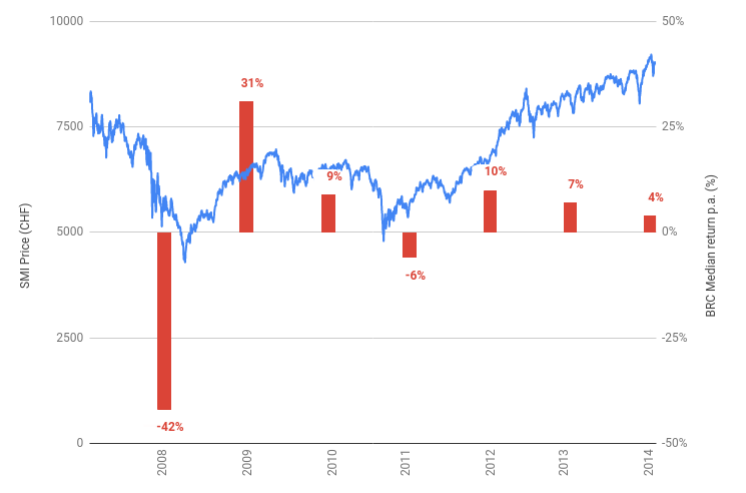
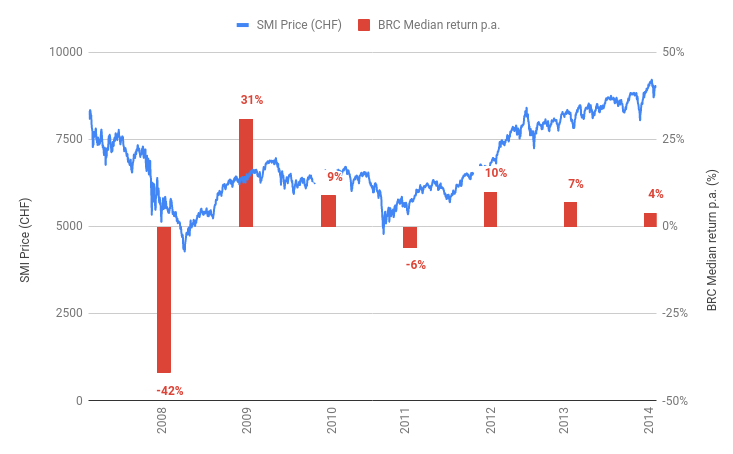
More references

diff --git a/main.tex b/main.tex
@@ -139,11 +139,11 @@ Structured products represent an attractive alternative to classical securities 
 
 In this report, we will focus on a particular structured product called Barrier Reverse Convertible (BRC). A BRC is a kind of reverse convertible security linked to an underlying stock that can be either an equity or an index. The capital repayment is made at maturity ; it can be 100\% of the principal if the underlying stock has not reached a predetermined barrier and less otherwise. A BRC also pays highly-rated coupons that enhance the attractiveness of the product.
 
-Reverse convertible securities are among the most popular products in Switzerland in terms of risk-optimization, especially if the investor expects the market to move upward. In order to illustrate that, we present in Figure \ref{fig:median-returns-BRC} the median returns of Swiss BRCs p.a. from 2008 to 2014 \cite{SSPA-study} and compare it with the evolution of the SMI index during the same period\footnote{We use this index as a proxy for the Swiss market.}. We can see that the median return of the BRCs seems effectively to be positively correlated with the index trend. As the volatility is generally decreasing with the stock price getting higher, this could also mean that someone investing in a BRC would expect lower volatility in the future. The mechanisms hidden behind those observations will be better explained further in this report.
+Reverse convertible securities are among the most popular products in Switzerland in terms of risk-optimization, especially if the investor expects the market to move upward. In order to illustrate that, we present in Figure \ref{fig:median-returns-BRC} the median returns of Swiss BRCs p.a. from 2008 to 2014 \cite{SSPA-study} and compare it with the evolution of the SMI index during the same period\footnote{The Swiss Market Index (SMI) is Switzerland's stock market index made of 20 of the largest and most liquid stocks. Here, we use this index as a proxy for the Swiss market.}. We can see that the median return of the BRCs seems effectively to be positively correlated with the index trend. As the volatility is generally decreasing with the stock price getting higher, this could also mean that someone investing in a BRC would expect lower volatility in the future. The mechanisms hidden behind those observations will be better explained further in this report.
 
 \begin{figure}[H] 
     \centering
-    \includegraphics[scale=0.4]{images/BRC_median_return.png} 
+    \includegraphics[scale=0.45]{images/BRC_median_return.png} 
     \caption{BRC median returns in \% in Switzerland compared with the SMI index evolution}
     \label{fig:median-returns-BRC}
 \end{figure}
@@ -218,7 +218,7 @@ To the regular (multi) BRCs can be added the callability by the issuer. This mea
 
 \chapter{Pricing Methodology}
 \label{chap:pricing-methodology}
-Since the financial instrument we want to price is a multi-dimensional asset, the best choice of pricing methodology seems to be a Monte Carlo method. The only problem with this method is that the price between the beginning and the maturity of the contract is unknown, and more particularly at the times of possible redemption by the issuer (called times of callability). But the price of the asset at those particular times has to be known (and compared with the amount of redemption precised in the contract) in order to determine whether the callability is activated or not by the issuer. A first and naive idea would be to use a new Monte Carlo at each time step needed, but this would be computationally too long and too complex to be efficient.  
+The price of the asset has to be known at all the times of possible redemption by the issuer to determine whether the asset will be called or not at those dates (we suppose that the issuer activates the callability if the call level is higher than the expected discounted cash flows at that date). Because of the multi-dimensionality of the asset, a first and naive approach would be to use a Monte Carlo method, but this would imply to compute a new Monte Carlo at each call dates to ascertain the behavior of the issuer, which would be computationally too long and too complex to be efficient. 
 
 A better solution would be to proceed in a backward manner, beginning with the price at maturity (which is known thanks to the explicit final payoff profile) and coming back to the price at $t=0$ step by step. With this approach, inspired by the Longstaff-Swartz algorithm \cite{schwartz2001valuing}, the price can be known at all the possible redemption times.
 
@@ -230,8 +230,11 @@ The whole methodology will be described in this chapter. First, we will present 
 \section{Presentation of the SDE system}
 \label{sec:SDE-presentation}
 As explained above, the objective is to compute the solution of  a forward-backward stochastic differential equation (FBSDE) which can be written as follow :
-$$S_{t} = S_{0}+\int_{0}^{t}b(s,S_{s})ds +\int_{0}^{t} \sigma(s,S_{s})dW_{s}$$
-$$Y_{t} = \Phi(\textbf{S}) + \int_{t}^{T}f(s,Y_{s},Z_{s})ds -\int_{t}^{T}Z_{s}dW_{s}$$
+$$\begin{cases}
+S_{t} = S_{0}+\int_{0}^{t}b(s,S_{s})ds +\int_{0}^{t} \sigma(s,S_{s})dW_{s}\\
+ \\
+Y_{t} = \Phi(\textbf{S}) + \int_{t}^{T}f(s,Y_{s},Z_{s})ds -\int_{t}^{T}Z_{s}dW_{s}
+\end{cases}$$
 $\textbf{S}=(S_{t})_{t\geq0}$ is a d-dimensional stochastic variable. It is the forward component of the system which represents the underlyings. $(Y_{t})_{t\geq0}$ represents the value of a replicating portfolio at time t and is uni-dimensional.\\
 The process $W$ is a d-dimensional brownian motion defined on a probability space $(\Omega,\mathcal{F},\mathbb{P})$ provided with its natural filtration $(\mathcal{F)}_{t}$ and generated by $W$. 
 $T$ is the maturity of our asset in year fraction.\\
@@ -249,7 +252,7 @@ Resolving the backward equation thus consists in computing a pair of processes $
 The model used for the diffusion of the underlyings is the Black-Scholes model. We suppose that all the underlyings have the same currency. As the pricing is done under risk-neutral probability, we have for each underlying $(S^{i}_{t})_{t\geq0}$:
 $$
 \begin{cases}
-dS_{t}^{i}=r\text{d}t+\sigma_{i}\text{d}W_{t}^{i} \\
+dS_{t}^{i}=r S_{t}^{i} \text{d}t+\sigma_{i} S_{t}^{i} \text{d}W_{t}^{i} \\
 S_{0}^{i}=s_{0}^{i} 
 \end{cases}
 $$
@@ -271,7 +274,7 @@ The first step is to generate $d$ independent realizations of a standard normal 
 \begin{tcolorbox}[breakable,colback=cyan,opacityfill=0.05,colframe=blue,width=\dimexpr\textwidth+12mm\relax,enlarge left by=-6mm]
 \begin{center}
 \vspace{0.2cm}
-\textbf{How to make a matrix $\Sigma$ definite positive ?}
+\textbf{How to make a matrix $\Sigma$ definite positive ?\footnote{This method is a first approach that could be improved with more complex algorithms. A good methodology for making a matrix definite positive is the one presented in \cite{jung2015scaling} based on the scaling of eigenvalues and the rotation of eigenvectors.}}
 \end{center}
 \begin{enumerate}
     \item Diagonalize the matrix $\Sigma$, \textit{ie} find $P$ an invertible matrix and $D$ a diagonal matrix such that $\Sigma=PDP^{-1}$
@@ -306,18 +309,9 @@ When it comes to several underlyings, the computation of $p$ becomes harder. As 
     
     \item \textbf{The barrier is a \textit{BestOf} and is up} : this situation is the same as the first one so  $p_{i}=1-\prod_{j=1}^{d}(1-p_{i}^{j})$
 \end{enumerate}
-Note that in order to compute those probabilities, we have made the strong assumption of independence between the different underlyings, which is not generally the case. Nevertheless, this approximation is necessary to have simple formulas and to take them into account in the payoff computation.
+Note that in order to compute those probabilities, we have made the strong assumption of independence between the different underlyings, which is not generally the case\footnote{This is a first approximation that could be improved for example with the Large Deviation Theory that relies on the asymptotic behaviors of probability distributions. For more information on that subject, see \cite{baldi1995exact}, \cite{baldi1999pricing} and \cite{huh2008computation}}.
 \section{Resolution of the backward equation}
-\subsection{Choice of the driver function}
-\label{subsec:choice-of-f}
-In order to find the expression of $f$ and to give more intuition about what the process $(Z_{t})_{t\geq0}$ represents, we set up a self-financing portfolio $Y_{t}$ and buy $a_{t}$ stocks $S_{t}$ at time $t$. The rest of the portfolio is invested in a bond whose fixed rate is the risk-free rate $r$. The value of the portfolio then evolves like:
-$$dY_{t} = r(Y_{t}-a_{t}S_{t})\text{d}t + a_{t}dS_{t}$$
-$$dY_{t} = r(Y_{t}-a_{t}S_{t})\text{d}t + a_{t}(rS_{t}\text{d}t+\sigma S_{t}\text{d}W_{t})$$
-which gives:
-$$dY_{t} = rY_{t}\text{d}t + \sigma a_{t}S_{t}\text{d}W_{t}$$
-The process $(Y_{t})_{t\geq0}$ presented in \ref{sec:SDE-presentation} is a solution of this SDE with $f(t,Y_{t})=-rY_{t}$, $Z_{t} = \sigma a_{t}S_{t}$ and the terminal condition $\Phi(S)=Y_{T}$.
-The hedging-strategy corresponds to $Z_{t}=\sigma S_{t} a_{t}$ where $a_{t}$ is the delta of the option. 
-\subsection{Resolution}
+\subsection{Resolution formula}
 Let us rewrite the backward equation at $t_{k}$ and $t_{k+1}$, two consecutive times in the time grid :
 $$Y_{t_{k}} = \Phi(S) + \int_{t_{k}}^{T} f(s,Y_{s}) ds - \int_{t_{k}}^{T} Z_{s} dW_{s}$$
 $$Y_{t_{k+1}} = \Phi(S) + \int_{t_{k+1}}^{T} f(s,Y_{s}) ds - \int_{t_{k+1}}^{T} Z_{s} dW_{s}$$
@@ -368,22 +362,24 @@ where $x=(x_{1},\ldots,x_{d})^{T}$, $x_{i}=(x_{1i},\ldots,x_{di})^{T}$, $d$ is t
 Furthermore, we chose to use the standard multivariate gaussian kernel which can be expressed as follows :
 $K_{H}(x)=\frac{1}{(2\pi)^{\frac{d}{2}}}|H|^{-\frac{1}{2}}e^{-\frac{1}{2}x^{T}H^{-1}x}$
 
-The choice of the matrix $H$ appears to be crucial as it controls the smoothing of the estimation. A good choice would be the \textit{rule of thumb} proposed by Silverman \cite{silverman1986density} which consists in a diagonal matrix whose terms are : $$\forall i=1,\ldots,d, H_{ii} = (\frac{4}{d+2})^{\frac{2}{d+4}}N^{\frac{-2}{d+4}}\sigma_{i}^{2}$$
+The choice of the matrix $H$ appears to be crucial as it controls the smoothing of the estimation. We chose the \textit{rule of thumb} proposed by Silverman \cite{silverman1986density} which consists in a diagonal matrix whose terms are : $$\forall i=1,\ldots,d, H_{ii} = (\frac{4}{d+2})^{\frac{2}{d+4}}N^{\frac{-2}{d+4}}\sigma_{i}^{2}$$
 with $\sigma_{i}^{2}$ the variance of the $d^{th}$ variable.\\
+
+This choice of the bandwidth is a first approximation as it supposes that the density function $f$ is normal. Nevertheless, it is convenient to have a general expression of $h$ without additional computations for a better performance of the algorithm. 
 
 The estimator then finally becomes :
 $$\hat{m}_{H}(x)= \frac{\sum_{i=1}^{N}y_{i}e^{-\frac{1}{2}(\frac{4}{N(d+2)})^{-\frac{2}{d+4}}\sum_{j=1}^{d}\frac{(x_{j}-x_{ji})^{2}}{\sigma_{j}^{2}}}}{\sum_{i=1}^{N}e^{-\frac{1}{2}(\frac{4}{N(d+2)})^{-\frac{2}{d+4}}\sum_{j=1}^{d}\frac{(x_{j}-x_{ji})^{2}}{\sigma_{j}^{2}}}}$$
 \subsection{Picard's method}
-We can see from the resolution formula \eqref{resolutionFormula} that the value of $Y_{t_{k}}$ we want to compute appears on the left and on the right side of the equation. We will thus use a fixed-point argument to compute $Y_{t_{k}}$.
+We can see from the resolution formula \eqref{resolutionFormula} that the value of $Y_{t_{k}}$ we want to compute appears on the left and on the right side of the equation with an implicit expression. We will thus use a fixed-point argument to compute $Y_{t_{k}}$.
 
 \begin{prop}
 The application $\Psi : Y \rightarrow \mathbb{E}(Y_{t_{k+1}}|\mathcal{F}_{t_{k}}) + \Delta_{t_k}f(t_{k},Y_{t_{k}})$ is a contraction of $\mathcal{L}_{2}(\mathcal{F}_{t_{k}})$ for a small $\Delta_{t_{k}}$.
 \end{prop}
 
 \begin{proof}
-Let $Y_{1}$ and $Y_{2}$ be two elements of $\mathcal{L}_{2}(\mathcal{F}_{t_{k}})$. Let us remind that $f(t,Y_t)=-rY_t$. We have : $$|\Psi(Y_{2})-\Psi(Y_{1})|=\Delta_{t_{k}}|f(t_{k},Y_{2})-f(t_{k},Y_{1})|$$
-$$=\Delta_{t_{k}}r |Y_{2}-Y_{1}|\leq \Delta_{t_{k}} C_{r}|Y_{2}-Y_{1}|$$
-where $C_{r}$ is a constant depending on $r$.
+Let $Y_{1}$ and $Y_{2}$ be two elements of $\mathcal{L}_{2}(\mathcal{F}_{t_{k}})$. Let us remind that $f$ satisfies Lipschitz conditions. We have : $$|\Psi(Y_{2})-\Psi(Y_{1})|=\Delta_{t_{k}}|f(t_{k},Y_{2})-f(t_{k},Y_{1})|$$
+$$\leq \Delta_{t_{k}} C|Y_{2}-Y_{1}|$$
+where $C$ is the Lipschitz constant.
 \end{proof}
 Thanks to this, we can apply Picard iterations to find $Y_{t_{k}}$. The methodology is the following:
 \begin{itemize}
@@ -395,47 +391,32 @@ We stop the iterations when the value seems to have converged, \textit{ie} when 
 \label{subsec:computation-0}
 At time $t=0$, the resolution formula \eqref{resolutionFormula} becomes $$Y_{t_{0}} = \mathbb{E}(Y_{t_{1}}|\mathcal{F}_{t_{0}}) + \Delta_{t_{0}}f(t_{0},Y_{t_{0}})=\mathbb{E}(Y_{t_{1}}) + \Delta_{t_{0}}f(t_{0},Y_{t_{0}})$$
 No more kernel estimation is then needed, the computation of $Y_{t_{0}}$ only requires the computation of an expectation (which is approximated by the mean of the vector $(Y_{t_1,i})_{i=1,\ldots,N}$) and Picard iterations. We use the Monte Carlo estimator :
-$$Y_{t_{0}} = \frac{1}{N}\sum_{i=1}^{N}Y_{1,i}-r\Delta_{t_{0}}Y_{t_{0}}$$
-\subsection{Computation of the delta of the option}
-As explained in \ref{subsec:choice-of-f}, the process $(\Delta_t)_{0 \leq t \leq T}$ is given by $\Delta_t=\frac{Z_t}{\sigma S_t}$. In order to compute $\Delta_{t_0}$, we then have to compute $Z_{t_0}$.
-Let us rewrite equation \ref{eq:Y_t} multiplied by $\Delta W_{t_k} = W_{t_k+1}-W_{t_k}$ and taken with the conditional expectation $\mathbb{E}(.|F_{t_k})$:
-$$\begin{aligned}
-\mathbb{E}(\Delta W_{t_k} Y_{t_{k}}|F_{t_k}) =& \mathbb{E}(\Delta W_{t_k} Y_{t_{k+1}}|F_{t_k}) + \mathbb{E}\left(\Delta W_{t_k} \int_{t_{k}}^{t_{k+1}} f(s,Y_{s}) ds~\bigg\vert~F_{t_k}\right) \\ 
-&-\mathbb{E}\left(\Delta W_{t_k} \int_{t_{k}}^{t_{k+1}}Z_{s} dW_{s}~\bigg\vert~F_{t_k}\right)
-\end{aligned}$$
+$$Y_{t_{0}} = \frac{1}{N}\sum_{i=1}^{N}Y_{1,i}+\Delta_{t_{0}}f(t_0,Y_{t_{0}})$$
 
-This can be written :
-$$\begin{aligned}
-Y_{t_{k}}\mathbb{E}(\Delta W_{t_k}) =& \mathbb{E}(\Delta W_{t_k} Y_{t_{k+1}}|F_{t_k}) + \mathbb{E}\left(\Delta W_{t_k} \int_{t_{k}}^{t_{k+1}} f(s,Y_{s}) ds\right) \\
-&-\mathbb{E}\left(\Delta W_{t_k} \int_{t_{k}}^{t_{k+1}}Z_{s} dW_{s}~\bigg\vert~F_{t_k}\right)
-\end{aligned}$$
+\subsection{Choice of the driver function}
+\label{subsec:choice-of-f}
+In the case of a pricing under the risk-neutral probability, it is possible to find the explicit expression of the driver function in the backward equation (this function was noted $f$) and to give more intuition about what the process $(Z_{t})_{t\geq0}$ represents, we set up a self-financing portfolio $Y_{t}$ and buy $a_{t}$ stocks $S_{t}$ at time $t$. The rest of the portfolio is invested in a bond whose fixed rate is the risk-free rate $r$. The value of the portfolio then evolves like:
+$$\begin{cases}
+dY_{t} = r(Y_{t}-a_{t}S_{t})\text{d}t + a_{t}dS_{t}\\
+ \\
+dS_{t}=rS_t\text{d}t+\sigma S_t\text{d}W_{t}
+\end{cases}$$
+which gives:
+$$dY_{t} = rY_{t}\text{d}t + \sigma a_{t}S_{t}\text{d}W_{t}$$
+The process $(Y_{t})_{t\geq0}$ presented in \ref{sec:SDE-presentation} is a solution of this SDE with $f(t,Y_{t})=-rY_{t}$, $Z_{t} = \sigma a_{t}S_{t}$ and the terminal condition $\Phi(S)=Y_{T}$.
+The hedging-strategy corresponds to $Z_{t}=\sigma S_{t} a_{t}$ where $a_{t}$ is the delta of the option. 
 
-We know that :
-\begin{itemize}
-    \item $\mathbb{E}(\Delta W_{t_k})=0$
-    \item $\mathbb{E}\left(\Delta W_{t_k} \int_{t_{k}}^{t_{k+1}} f(s,Y_{s}) ds\right)=\int_{t_{k}}^{t_{k+1}} f(s,Y_{s}) ds \mathbb{E}(\Delta W_{t_k})=0$
-    \item $\mathbb{E}\left(\Delta W_{t_k} \int_{t_{k}}^{t_{k+1}}Z_{s} dW_{s}|F_{t_k}\right) \simeq \mathbb{E}(\Delta W_{t_k}^2 Z_{t_k}|F_{t_k}) = Z_{t_k} \mathbb{E}(\Delta W_{t_k}^2|F_{t_k}) = Z_{t_k} \mathbb{E}(\Delta W_{t_k}^2) = Z_{t_k} \Delta_{t_k}$
-\end{itemize}
-
-We can then compute $Z_{t_k}$ for each $t_{k}$ with the following formula :
-\begin{equation}
-    Z_{t_k} \simeq \frac{1}{\Delta_{t_k}}\mathbb{E}(\Delta W_{t_k} Y_{t_{k+1}}|F_{t_k})
-\end{equation}
-
-And $\Delta_{t_0}$ is given by :
-$$\Delta_{t_0} \simeq \frac{1}{\sigma \Delta_{t_k} S_{t_k}}\mathbb{E}(\Delta W_{t_0} Y_{t_{1}}|F_{t_0})=\frac{1}{\sigma \Delta_{t_k} S_{t_k}}\mathbb{E}(\Delta W_{t_0} Y_{t_{1}})$$
-
-\section{Resolution of a double reflected BSDE}
+\section{Resolution of a reflected BSDE}
 \subsection{Motivations}
 There are two aspects of the callable Barrier Reverse Convertible that can not be included in the final payoff. These are the coupons that can be paid throughout the whole life of the asset, and the callability of the BRC that can be activated at determined times before maturity. This can introduce some discontinuity in the price of the asset, which we tried to integrate in our modeling with reflected forward-backward stochastic differential equations.
 \subsection{Description of the new problem and resolution}
 We define the following set of equations :
 $$S_{t}=S_{0} + \int_{0}^{t}b(s,S_{s})ds + \int_{0}^{t}\sigma(s,S_{s})dW_{s}$$
 $$Y_{t}=\Phi(S_{T})+\int_{t}^{T}f(s,Y_{s},Z_{s})ds+(K_{T}^{+}-K_{t}^{+})+(K_{T}^{-}-K_{t}^{-})-\int_{t}^{T}Z_{s}dW_{s}$$
-$$\forall t\leq T, L_{t}\leq Y_{t}\leq U_{t} \text{ with }$$ $$\int_{0}^{T}(Y_{s}-L_{s})dK_{s}^{+}=\int_{0}^{T}(U_{s}-Y_{s})dK_{s}^{+}=0$$
-as a double reflected forward backward stochastic differential equation (double RFBSDE).
+$$\forall t\leq T, Y_{t}\leq U_{t} \text{ with } \int_{0}^{T}(U_{s}-Y_{s})dK_{s}^{+}=0 $$
+as a reflected forward backward stochastic differential equation (RFBSDE) with a jump process $(K_{t}^{+})_{0\leq t \leq T}$.
 
-The processes $(L_{t})_{0\leq t \leq T}$ and $(U_{t})_{0\leq t \leq T}$ are called the obstacles and the processes $(K_{t}^{+})_{0\leq t \leq T}$ and $(K_{t}^{-})_{0\leq t \leq T}$ are here to "push" the price respectively above and below those obstacles. \\
+The process $(U_{t})_{0\leq t \leq T}$ is called the obstacle and the process $(K_{t}^{-})_{0\leq t \leq T}$ is here to "push" the price below this obstacle (in our case to push the price to the call level if the asset is called). The jump process $(K_{t}^{+})_{0\leq t \leq T}$ is here to include the coupons in the price when necessary. \\
 
 The first step to resolve this new problem is to resolve the unreflected BSDE on the time interval $[t_{k-1},t_{k}]$, just as we described in the previous section. We then compute : $$\widetilde{\widetilde{Y}}_{t_{k-1}}=Y_{t_{k}}+\int_{t_{k-1}}^{t_{k}}f(s,Y_{s},Z_{s})ds-\int_{t_{k-1}}^{t_{k}}Z_{s}dW_{s}$$
 
@@ -444,12 +425,11 @@ Finally, if the date $t_{k-1}$ is a call date, we have to make sure that the pri
 $$U_{t_{k-1}}=
 \begin{cases}
 \text{Value of the call} & \text{if } \widetilde{Y}_{t_{k-1}}\geq \text{Value of the call }\\
-0& \text{otherwise }
+\widetilde{Y}_{t_{k-1}}& \text{otherwise }
 \end{cases}$$
 
 And $Y_{t_{k-1}}=\min(\widetilde{Y}_{t_{k-1}},U_{t_{k-1}})$. We can define $K_{t_{k-1}}=Y_{t_{k-1}}-\widetilde{Y}_{t_{k-1}}$ so that $(K_{t})_{0\leq t\leq T}$ sticks with its definition.
 
-\newpage
 \section{Taking into account the risk of default}
 The price of the asset still doesn't include the probability of default of the issuer. In order to do that we have to multiply the price by the survival probability of the issuer.\\
 
@@ -491,6 +471,36 @@ We can summarize the pricing methodology we use for callable barrier reverse con
     \item \textbf{Compute the price at $t=0$} as described in \ref{subsec:computation-0}
     \item \textbf{Take into account the default risk}, \textit{ie} multiply the price by the survival probability of the issuer
 \end{enumerate}
+
+\section{Computation of the delta of the option}
+In addition to the pricing can be computed the delta of the option very easily. Indeed, as explained in \ref{subsec:choice-of-f}, the delta is the process $(a_t)_{0 \leq t \leq T}$ given by $a_t=\frac{Z_t}{\sigma S_t}$. In order to compute $\a_{t_0}$, we then have to compute $Z_{t_0}$.
+Let us rewrite equation \ref{eq:Y_t} multiplied by $\Delta W_{t_k} = W_{t_k+1}-W_{t_k}$ and taken with the conditional expectation $\mathbb{E}(.|F_{t_k})$:
+$$\begin{aligned}
+\mathbb{E}(\Delta W_{t_k} Y_{t_{k}}|F_{t_k}) =& \mathbb{E}(\Delta W_{t_k} Y_{t_{k+1}}|F_{t_k}) + \mathbb{E}\left(\Delta W_{t_k} \int_{t_{k}}^{t_{k+1}} f(s,Y_{s}) ds~\bigg\vert~F_{t_k}\right) \\ 
+&-\mathbb{E}\left(\Delta W_{t_k} \int_{t_{k}}^{t_{k+1}}Z_{s} dW_{s}~\bigg\vert~F_{t_k}\right)
+\end{aligned}$$
+
+This can be written :
+$$\begin{aligned}
+Y_{t_{k}}\mathbb{E}(\Delta W_{t_k}) =& \mathbb{E}(\Delta W_{t_k} Y_{t_{k+1}}|F_{t_k}) + \mathbb{E}\left(\Delta W_{t_k} \int_{t_{k}}^{t_{k+1}} f(s,Y_{s}) ds\right) \\
+&-\mathbb{E}\left(\Delta W_{t_k} \int_{t_{k}}^{t_{k+1}}Z_{s} dW_{s}~\bigg\vert~F_{t_k}\right)
+\end{aligned}$$
+
+We know that :
+\begin{itemize}
+    \item $\mathbb{E}(\Delta W_{t_k})=0$
+    \item $\mathbb{E}\left(\Delta W_{t_k} \int_{t_{k}}^{t_{k+1}} f(s,Y_{s}) ds\right)=\int_{t_{k}}^{t_{k+1}} f(s,Y_{s}) ds \mathbb{E}(\Delta W_{t_k})=0$
+    \item $\mathbb{E}\left(\Delta W_{t_k} \int_{t_{k}}^{t_{k+1}}Z_{s} dW_{s}|F_{t_k}\right) \simeq \mathbb{E}(\Delta W_{t_k}^2 Z_{t_k}|F_{t_k}) = Z_{t_k} \mathbb{E}(\Delta W_{t_k}^2|F_{t_k}) = Z_{t_k} \mathbb{E}(\Delta W_{t_k}^2) = Z_{t_k} \Delta_{t_k}$
+\end{itemize}
+
+We can then compute $Z_{t_k}$ for each $t_{k}$ with the following formula :
+\begin{equation}
+    Z_{t_k} \simeq \frac{1}{\Delta_{t_k}}\mathbb{E}(\Delta W_{t_k} Y_{t_{k+1}}|F_{t_k})
+\end{equation}
+
+And $a_{t_0}$ is given by :
+$$a_{t_0} \simeq \frac{1}{\sigma \Delta_{t_k} S_{t_k}}\mathbb{E}(\Delta W_{t_0} Y_{t_{1}}|F_{t_0})=\frac{1}{\sigma \Delta_{t_k} S_{t_k}}\mathbb{E}(\Delta W_{t_0} Y_{t_{1}})$$
+
 
 %--------------------------------------------------------------------------
 %	Chapter 3
@@ -1181,7 +1191,7 @@ The main objective of this report was the pricing of a structured product called
 
 The quality of the results depends on several factors. For example, the longer the maturity of the asset, the less precise the price. The number of underlyings also plays a role in the accuracy of the results. Globally, the price we obtain is slightly overestimated compared with the bid and ask prices. This could be due to the flaws of our methodology and the unrealistic assumptions we made, but also to the kernel regression (which raises the question of a better bandwidth choice) that can affect the precision in corner cases.
 
-In order to improve our results, we added a term-structure to the volatility, picking up the values for different tenors on Bloomberg and interpolating between those tenors with a rational quadratic spline interpolation. The results are rather mitigated ; if simple BRC's prices are more accurately estimated, this improvement of the methodology does not seem to evict the difficulties to estimate low barrier prices. Further research should then focus on a better conditional expectation estimation as well as volatility modeling in order to improve the pricing.
+In order to improve our results, we added a term-structure to the volatility, picking up the values for different tenors on Bloomberg and interpolating between those tenors with a rational quadratic spline interpolation. The results are rather mitigated ; if simple BRC's prices are more accurately estimated, this improvement of the methodology does not seem to evict the difficulties to estimate low barrier prices. Further research should therefore focus on a better conditional expectation estimation as well as volatility modeling in order to improve the pricing.
 
 
 
